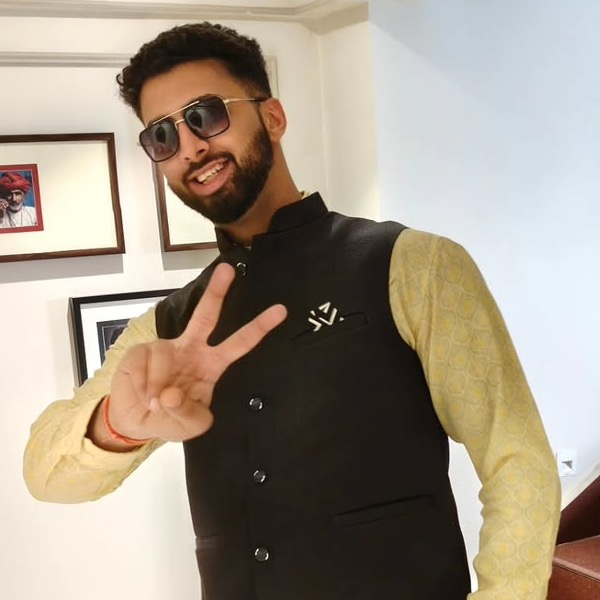
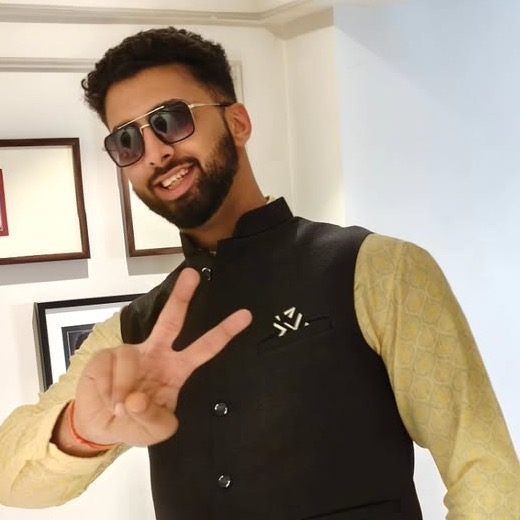
feat: sharper higher-resolution ASCII portrait

diff --git a/scripts/render_cards.py b/scripts/render_cards.py
@@ -17,7 +17,7 @@ STATIC = os.environ.get("STATIC") == "1"
 PAPER, PAPER2, INK, MUTED, LINE = "none", "var(--card)", "var(--ink)", "var(--muted)", "var(--line)"
 BLUE, RED, YEL = "var(--blue)", "var(--red)", "var(--yel)"
 THEME = (":root{--ink:#1f2328;--muted:#656d76;--line:#d0d7de;--card:#f6f8fa;--blue:#0969da;--red:#cf222e;--yel:#bf8700;"
-         "--h0:#ebedf0;--h1:#b6d6ff;--h2:#79b8ff;--h3:#388bfd;--h4:#0969da}"
+         "--h0:#ebedf0;--h1:#b6d6ff;--h2:#79b8ff;--h3:#388bfd;--h4:#0969da}.pd{display:none}"
          "@media (prefers-color-scheme:dark){:root{--ink:#e6edf3;--muted:#7d8590;--line:#30363d;--card:#161b22;--blue:#58a6ff;--red:#ff7b72;--yel:#e3b341;"
          "--h0:#161b22;--h1:#0c2d6b;--h2:#1158c7;--h3:#388bfd;--h4:#79c0ff}}")
 SERIF = "'Instrument Serif',Georgia,'Times New Roman',serif"
@@ -75,24 +75,27 @@ def hero(prof, days):
     </linearGradient></defs>
     <text class="l serif" x="52" y="118" font-size="84" fill="{INK}">Tanmay</text>
     <text class="l serif" style="animation-delay:.2s" x="52" y="198" font-size="84" fill="url(#sh)">Khatri</text>
-    <text class="l" style="animation-delay:.5s" x="54" y="244" font-size="17" fill="{MUTED}">Learning in public: test automation, scraping and APIs.</text>
+    <text class="l" style="animation-delay:.5s" x="54" y="244" font-size="15" fill="{MUTED}">Learning in public: test automation, scraping, APIs.</text>
     <text class="l m" style="animation-delay:.6s" x="54" y="272" font-size="13" fill="{BLUE}">@{esc(prof["login"])}  ·  joined {d(prof["created_at"]):%b %Y}</text>
     <g class="l" style="animation-delay:.8s">
       <circle class="dot" cx="60" cy="312" r="5" fill="{RED}"/><circle cx="60" cy="312" r="5" fill="{RED}"/>
       <text class="m" x="76" y="316" font-size="13" fill="{INK}">last push {d(last):%d %b %Y}  ·  {" · ".join(esc(l) for l in langs)}</text>
     </g>'''
-    # ASCII portrait, printed row by row (18 ms apart)
-    p = os.path.join(ROOT, "assets", "portrait.txt")
-    if os.path.exists(p):
-        rows = open(p).read().split("\n")
-        cw, lh, fs = 4.2, 8.1, 6.9
-        x0, y0 = 440, 40
-        for i, row in enumerate(rows):
+    # ASCII portrait, printed row by row (18 ms apart); one version per theme
+    cw, lh, fs = 2.8, 5.65, 4.8
+    x0, y0 = 458, 30
+    for cls, fn in (("pl", "portrait.txt"),):
+        p = os.path.join(ROOT, "assets", fn)
+        if not os.path.exists(p):
+            continue
+        body += f'<g class="{cls}">'
+        for i, row in enumerate(open(p).read().split("\n")):
             if not row.strip():
                 continue
-            body += (f'<text class="r m" style="animation-delay:{.5 + i * .018:.3f}s" xml:space="preserve" '
+            body += (f'<text class="r m" style="animation-delay:{.4 + i * .018:.3f}s" xml:space="preserve" '
                      f'x="{x0}" y="{y0 + i * lh:.1f}" font-size="{fs}" fill="{INK}" textLength="{len(row) * cw:.1f}" '
                      f'lengthAdjust="spacing">{esc(row)}</text>')
+        body += "</g>"
     write("hero.svg", svg(820, 400, body, css))
 
 

diff --git a/scripts/make_portrait.py b/scripts/make_portrait.py
@@ -1,29 +1,45 @@
 #!/usr/bin/env python3
-"""One-off (macOS): turn assets/photo.jpg into assets/portrait.txt (ASCII rows).
-Run locally; the daily Action only reads portrait.txt."""
-import subprocess, struct, sys, os
+"""One-off (macOS): turn assets/photo.jpg into two ASCII portraits:
+portrait.txt (light theme: dark pixels dense) and portrait_dark.txt (dark theme: bright pixels dense).
+Run locally; the Action only reads the .txt files."""
+import subprocess, struct, os
 ROOT = os.path.dirname(os.path.dirname(os.path.abspath(__file__)))
 src = os.path.join(ROOT, "assets", "photo.jpg")
-COLS, ROWS = 84, 42
+COLS, ROWS = 124, 62
 bmp = "/tmp/portrait.bmp"
 subprocess.run(["sips", "-s", "format", "bmp", "-z", str(ROWS), str(COLS), src, "--out", bmp], check=True, capture_output=True)
 b = open(bmp, "rb").read()
 off = struct.unpack("<I", b[10:14])[0]; w, h = struct.unpack("<ii", b[18:26]); bpp = struct.unpack("<H", b[28:30])[0] // 8
 stride = (w * bpp + 3) // 4 * 4
+H = abs(h)
 lum = []
-for y in range(abs(h)):
-    row = (abs(h) - 1 - y) if h > 0 else y
+for y in range(H):
+    row = (H - 1 - y) if h > 0 else y
     base = off + row * stride
     lum.append([0.114 * b[base + x * bpp] + 0.587 * b[base + x * bpp + 1] + 0.299 * b[base + x * bpp + 2] for x in range(w)])
-flat = sorted(v for r in lum for v in r)
-lo, hi = flat[int(len(flat) * .03)], flat[int(len(flat) * .62)]
-ramp = " .'`^:;~+*cxo#%@"
-out = []
-for r in lum:
-    s = ""
-    for v in r:
-        t = 1 - min(1, max(0, (v - lo) / (hi - lo)))
-        s += ramp[int(t ** 1.0 * (len(ramp) - 1) if t > .10 else 0)]
-    out.append(s.rstrip())
-open(os.path.join(ROOT, "assets", "portrait.txt"), "w").write("\n".join(out))
-print(len(out), "rows")
+# unsharp mask for crisp edges
+def blur(x, y):
+    t = n = 0
+    for dy in (-1, 0, 1):
+        for dx in (-1, 0, 1):
+            yy, xx = y + dy, x + dx
+            if 0 <= yy < H and 0 <= xx < w:
+                t += lum[yy][xx]; n += 1
+    return t / n
+sharp = [[max(0, min(255, lum[y][x] + 1.6 * (lum[y][x] - blur(x, y)))) for x in range(w)] for y in range(H)]
+flat = sorted(v for r in sharp for v in r)
+lo, hi = flat[int(len(flat) * .02)], flat[int(len(flat) * .50)]
+def eq(v):   # 1 = darkest subject, 0 = wall
+    return 1 - min(1, max(0, (v - lo) / (hi - lo)))
+ramp = " .'`^\",:;Il!i><~+_-?][}{1)(|\\/tfjrxnuvczXYUJCLQ0OZmwqpdbkhao*#MW&8%B@$"
+def render(invert):
+    out = []
+    for r in sharp:
+        s = ""
+        for v in r:
+            t = eq(v)
+            s += ramp[int(min(1, t ** 0.85) * (len(ramp) - 1))] if t > .10 else " "
+        out.append(s.rstrip())
+    return "\n".join(out)
+open(os.path.join(ROOT, "assets", "portrait.txt"), "w").write(render(False))
+print(H, "rows x", w, "cols")
